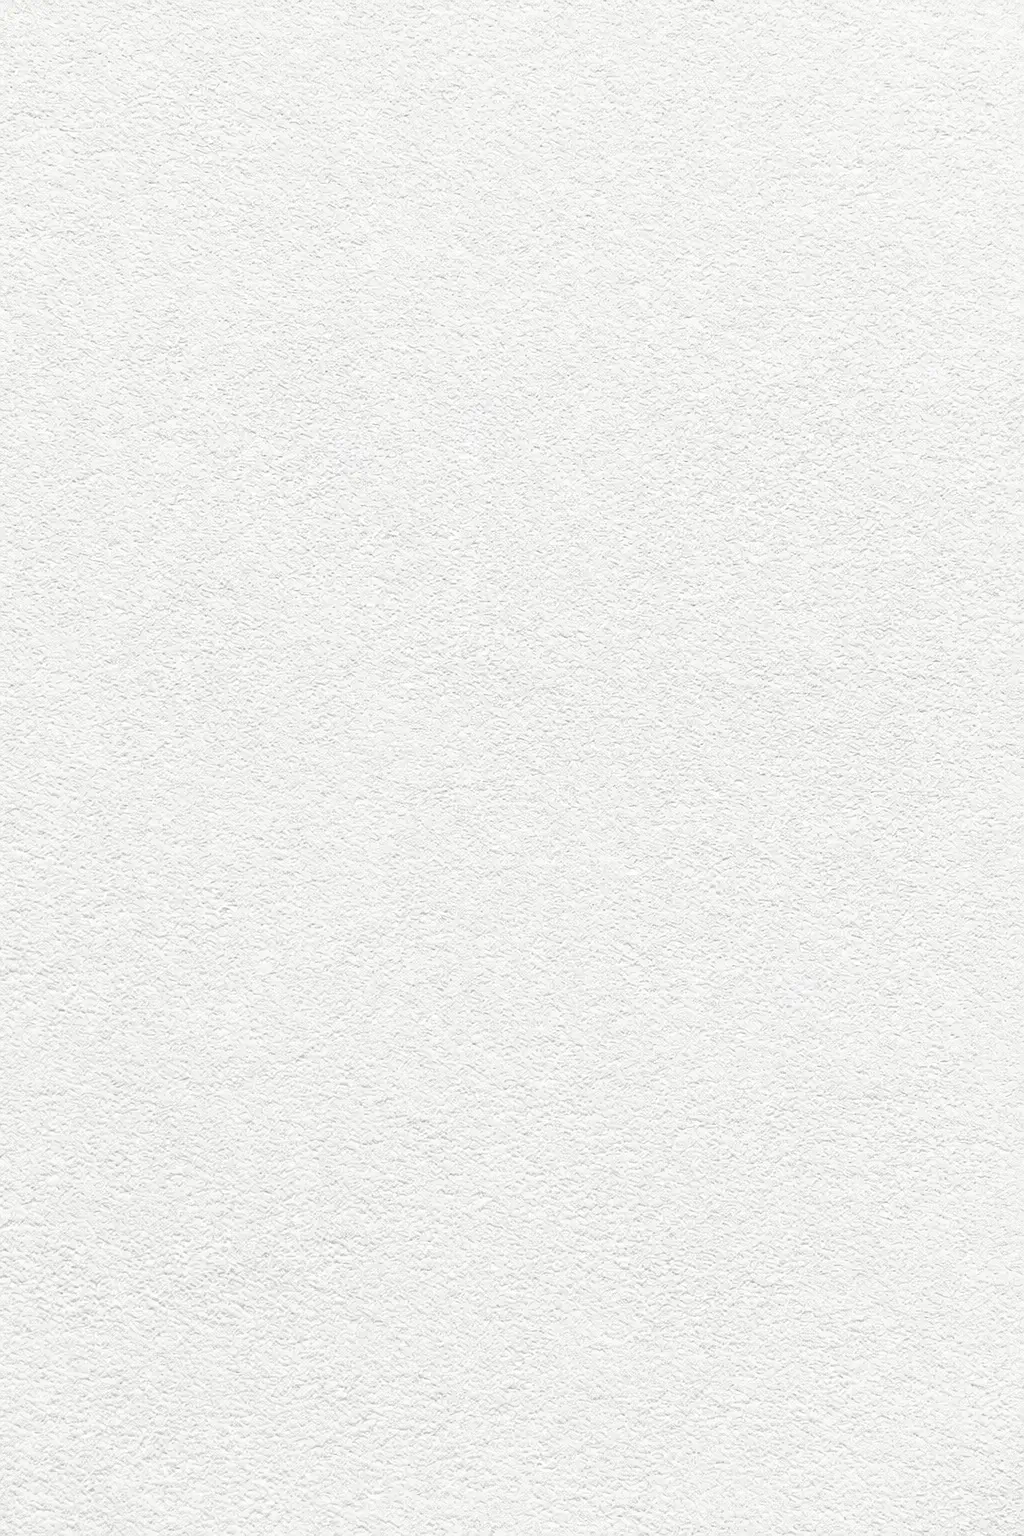
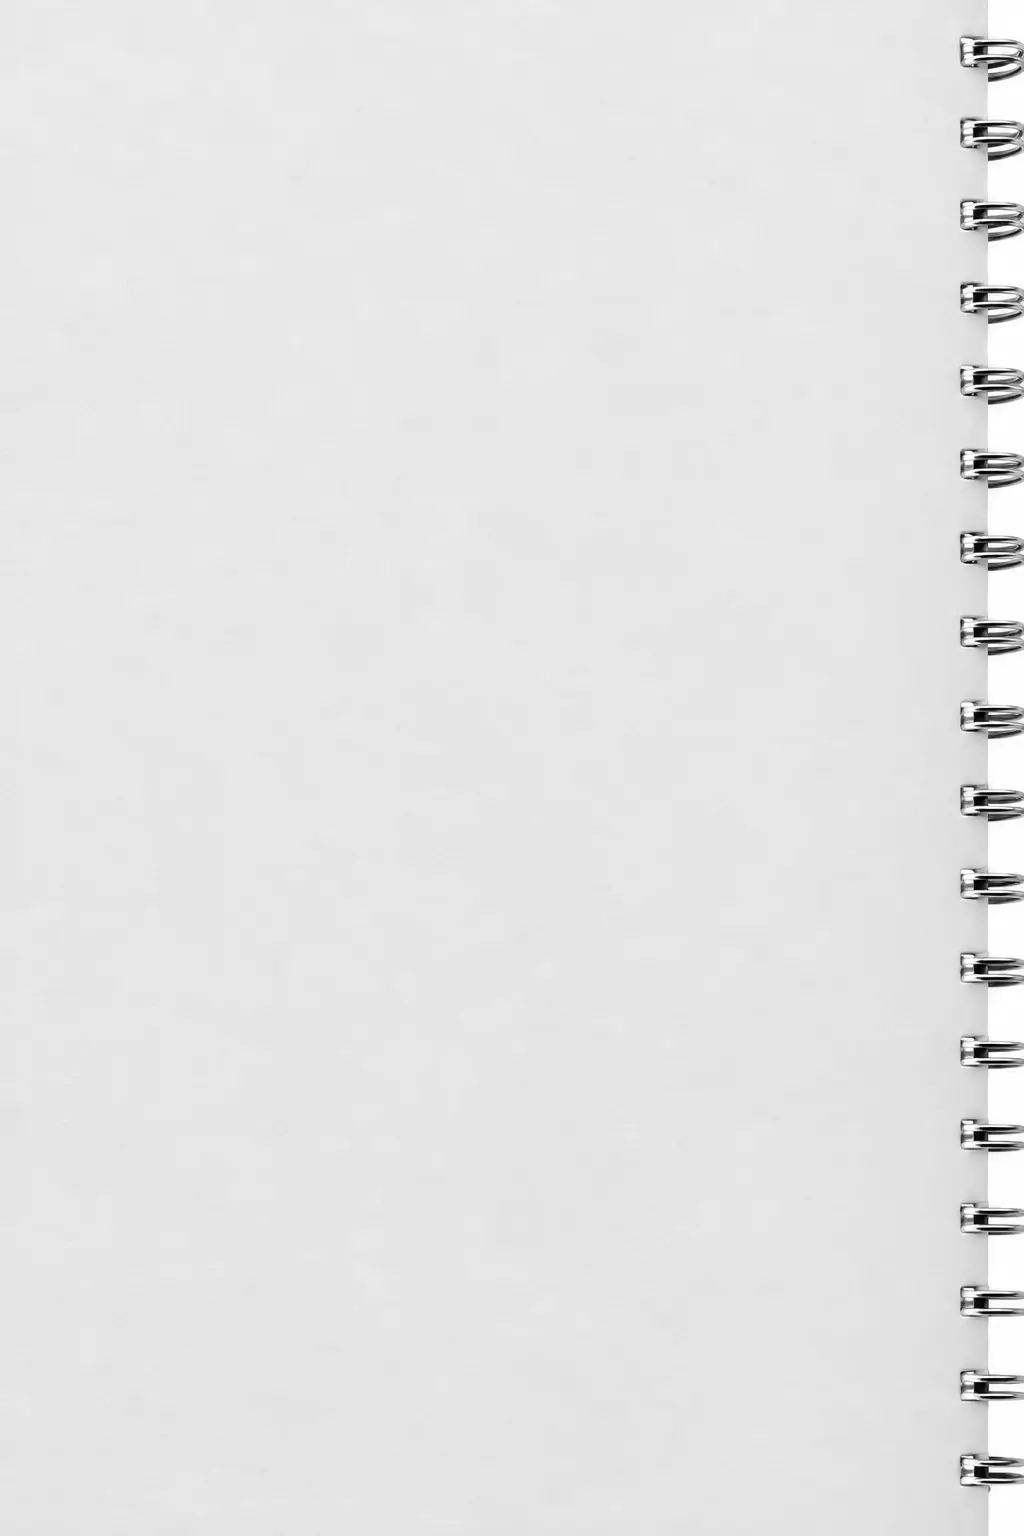
Use supplied notebook background for all article pages

Changed region(s): [[0.8125, 0.0, 1.0, 1.0]]

diff --git a/shop-article.html b/shop-article.html
@@ -1,4 +1,4 @@
-<!doctype html><html lang="he" dir="rtl"><head><meta charset="utf-8"><meta name="viewport" content="width=device-width,initial-scale=1"><title>כתבה | אלקטרושופ</title><meta name="description" content="חדשות ומדריכים מבית אלקטרושופ"><meta name="robots" content="index,follow"><!-- ARTICLE_CANONICAL --><script src="shop-ga4.js?v=1"></script><link rel="stylesheet" href="shop-base.css"><link rel="stylesheet" href="shop-theme.css?v=media-webp-1"><link rel="stylesheet" href="shop-components.css"><link rel="stylesheet" href="shop-page-navigation.css"><link rel="stylesheet" href="shop-header.css?v=gap-background-5"><link rel="stylesheet" href="shop-menu-visibility.css"><link rel="stylesheet" href="shop-mobile-header.css?v=2"><link rel="stylesheet" href="shop-mobile-layout.css?v=2"><link rel="stylesheet" href="shop-unified-menu.css?v=3"><link rel="stylesheet" href="shop-shared-footer.css?v=1"><link rel="stylesheet" href="shop-articles.css?v=paper-15"><link rel="stylesheet" href="https://cdnjs.cloudflare.com/ajax/libs/font-awesome/6.5.1/css/all.min.css"><!-- Electroshop shared branding -->
+<!doctype html><html lang="he" dir="rtl"><head><meta charset="utf-8"><meta name="viewport" content="width=device-width,initial-scale=1"><title>כתבה | אלקטרושופ</title><meta name="description" content="חדשות ומדריכים מבית אלקטרושופ"><meta name="robots" content="index,follow"><!-- ARTICLE_CANONICAL --><script src="shop-ga4.js?v=1"></script><link rel="stylesheet" href="shop-base.css"><link rel="stylesheet" href="shop-theme.css?v=media-webp-1"><link rel="stylesheet" href="shop-components.css"><link rel="stylesheet" href="shop-page-navigation.css"><link rel="stylesheet" href="shop-header.css?v=gap-background-5"><link rel="stylesheet" href="shop-menu-visibility.css"><link rel="stylesheet" href="shop-mobile-header.css?v=2"><link rel="stylesheet" href="shop-mobile-layout.css?v=2"><link rel="stylesheet" href="shop-unified-menu.css?v=3"><link rel="stylesheet" href="shop-shared-footer.css?v=1"><link rel="stylesheet" href="shop-articles.css?v=notebook-16"><link rel="stylesheet" href="https://cdnjs.cloudflare.com/ajax/libs/font-awesome/6.5.1/css/all.min.css"><!-- Electroshop shared branding -->
 <link rel="icon" type="image/x-icon" href="/favicon.ico?v=robot-20261005">
 <link rel="icon" type="image/png" sizes="32x32" href="/favicon-32x32.png?v=robot-20261005">
 <link rel="icon" type="image/png" sizes="16x16" href="/favicon-16x16.png?v=robot-20261005">

diff --git a/shop-articles.css b/shop-articles.css
@@ -13,7 +13,7 @@ body.news-page:has(#articlesGrid) .news-hero h1{color:#ffd318}body.news-page:has
 .articles-grid{display:grid;grid-template-columns:minmax(0,920px);justify-content:center;gap:14px}.article-card{display:grid;grid-template-columns:150px minmax(0,1fr);align-items:center;width:100%;min-height:104px;background:#fff;border:1px solid #e0b43c;border-radius:16px;overflow:hidden;color:#172033;text-decoration:none;box-shadow:0 7px 18px #162d4b1c;transition:.2s}.article-card.no-cover{grid-template-columns:minmax(0,1fr)}.article-card:hover{transform:translateY(-2px);box-shadow:0 10px 24px #162d4b2b}.article-card img{width:150px;height:104px;object-fit:cover;background:#eee}.article-card-body{padding:14px 18px;display:grid;grid-template-columns:minmax(0,1fr) auto;align-items:center;gap:18px}.article-card h2{margin:0;color:var(--news-blue);font-size:clamp(1.05rem,2vw,1.35rem);line-height:1.3}.article-card p{display:none}.article-card strong{color:#b05700;white-space:nowrap}
 body.news-page:has(#articleView) .news-shell{width:min(1540px,calc(100% - 48px))}
 /* Use the supplied image on current and future article pages only. */
-body.news-page:has(#articleView) .news-frame{background:#f1f1ef url('images/article-background.webp?v=paper-15') center top / 1024px auto repeat;border-color:#000;box-shadow:0 18px 45px rgba(0,0,0,.25)}
+body.news-page:has(#articleView) .news-frame{background:#e9e9e9 url('images/article-background.webp?v=notebook-16') right top / 100% auto repeat-y;border-color:#000;box-shadow:0 18px 45px rgba(0,0,0,.25);padding-right:clamp(48px,8vw,112px)}
 /* Keep article text consistently black, including saved editor colors. */
 #articleView.article-view,#articleView .article-content,#articleView .article-content *,#articleView .article-head h1,#articleView .article-date,#articleView .article-copyright,#articleView .article-related,#articleView .article-related h2,#articleView .article-related a{color:#000!important}
 #articleView .article-content a,#articleView .article-content a *,#articleView .article-related a{color:#075dcc!important}

diff --git a/shop-article-preview.html b/shop-article-preview.html
@@ -3,7 +3,7 @@
 <head>
  <meta charset="utf-8"><meta name="viewport" content="width=device-width,initial-scale=1">
  <title>תצוגה מקדימה | אלקטרושופ</title><meta name="robots" content="noindex,nofollow">
- <link rel="stylesheet" href="shop-base.css"><link rel="stylesheet" href="shop-theme.css?v=media-webp-1"><link rel="stylesheet" href="shop-components.css"><link rel="stylesheet" href="shop-page-navigation.css"><link rel="stylesheet" href="shop-header.css?v=gap-background-5"><link rel="stylesheet" href="shop-menu-visibility.css"><link rel="stylesheet" href="shop-mobile-header.css?v=2"><link rel="stylesheet" href="shop-mobile-layout.css?v=2"><link rel="stylesheet" href="shop-unified-menu.css?v=3"><link rel="stylesheet" href="shop-shared-footer.css?v=1"><link rel="stylesheet" href="shop-articles.css?v=paper-15"><link rel="stylesheet" href="https://cdnjs.cloudflare.com/ajax/libs/font-awesome/6.5.1/css/all.min.css">
+ <link rel="stylesheet" href="shop-base.css"><link rel="stylesheet" href="shop-theme.css?v=media-webp-1"><link rel="stylesheet" href="shop-components.css"><link rel="stylesheet" href="shop-page-navigation.css"><link rel="stylesheet" href="shop-header.css?v=gap-background-5"><link rel="stylesheet" href="shop-menu-visibility.css"><link rel="stylesheet" href="shop-mobile-header.css?v=2"><link rel="stylesheet" href="shop-mobile-layout.css?v=2"><link rel="stylesheet" href="shop-unified-menu.css?v=3"><link rel="stylesheet" href="shop-shared-footer.css?v=1"><link rel="stylesheet" href="shop-articles.css?v=notebook-16"><link rel="stylesheet" href="https://cdnjs.cloudflare.com/ajax/libs/font-awesome/6.5.1/css/all.min.css">
 <!-- Electroshop shared branding -->
 <link rel="icon" type="image/x-icon" href="/favicon.ico?v=robot-20261005">
 <link rel="icon" type="image/png" sizes="32x32" href="/favicon-32x32.png?v=robot-20261005">
